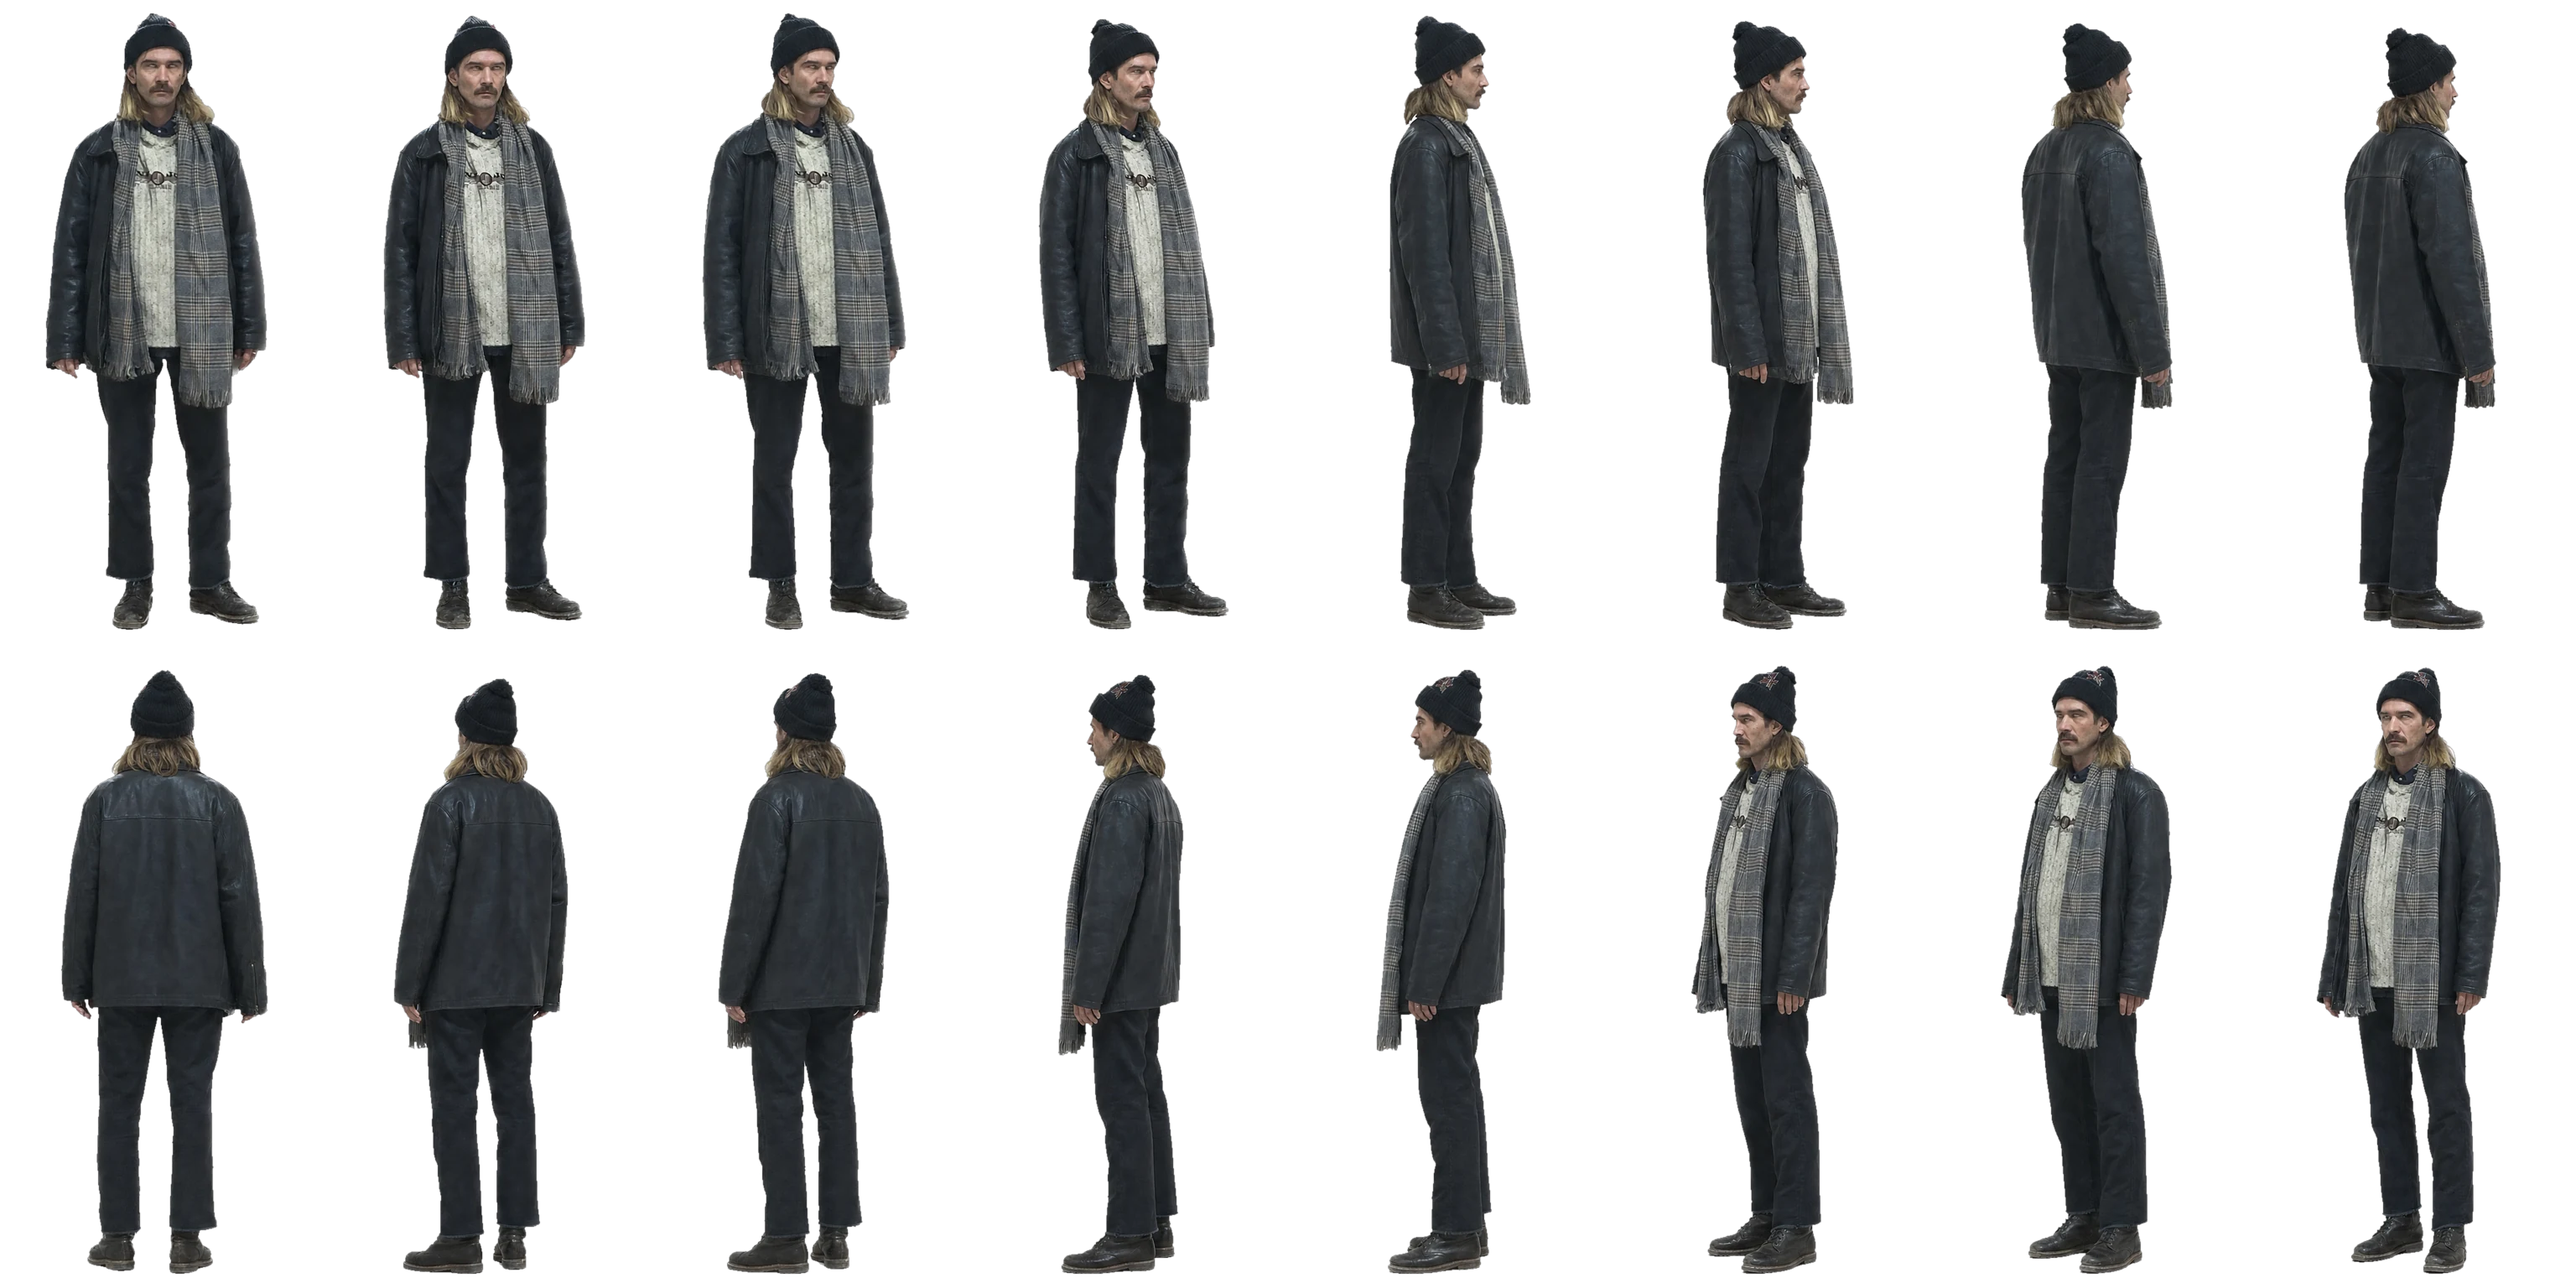
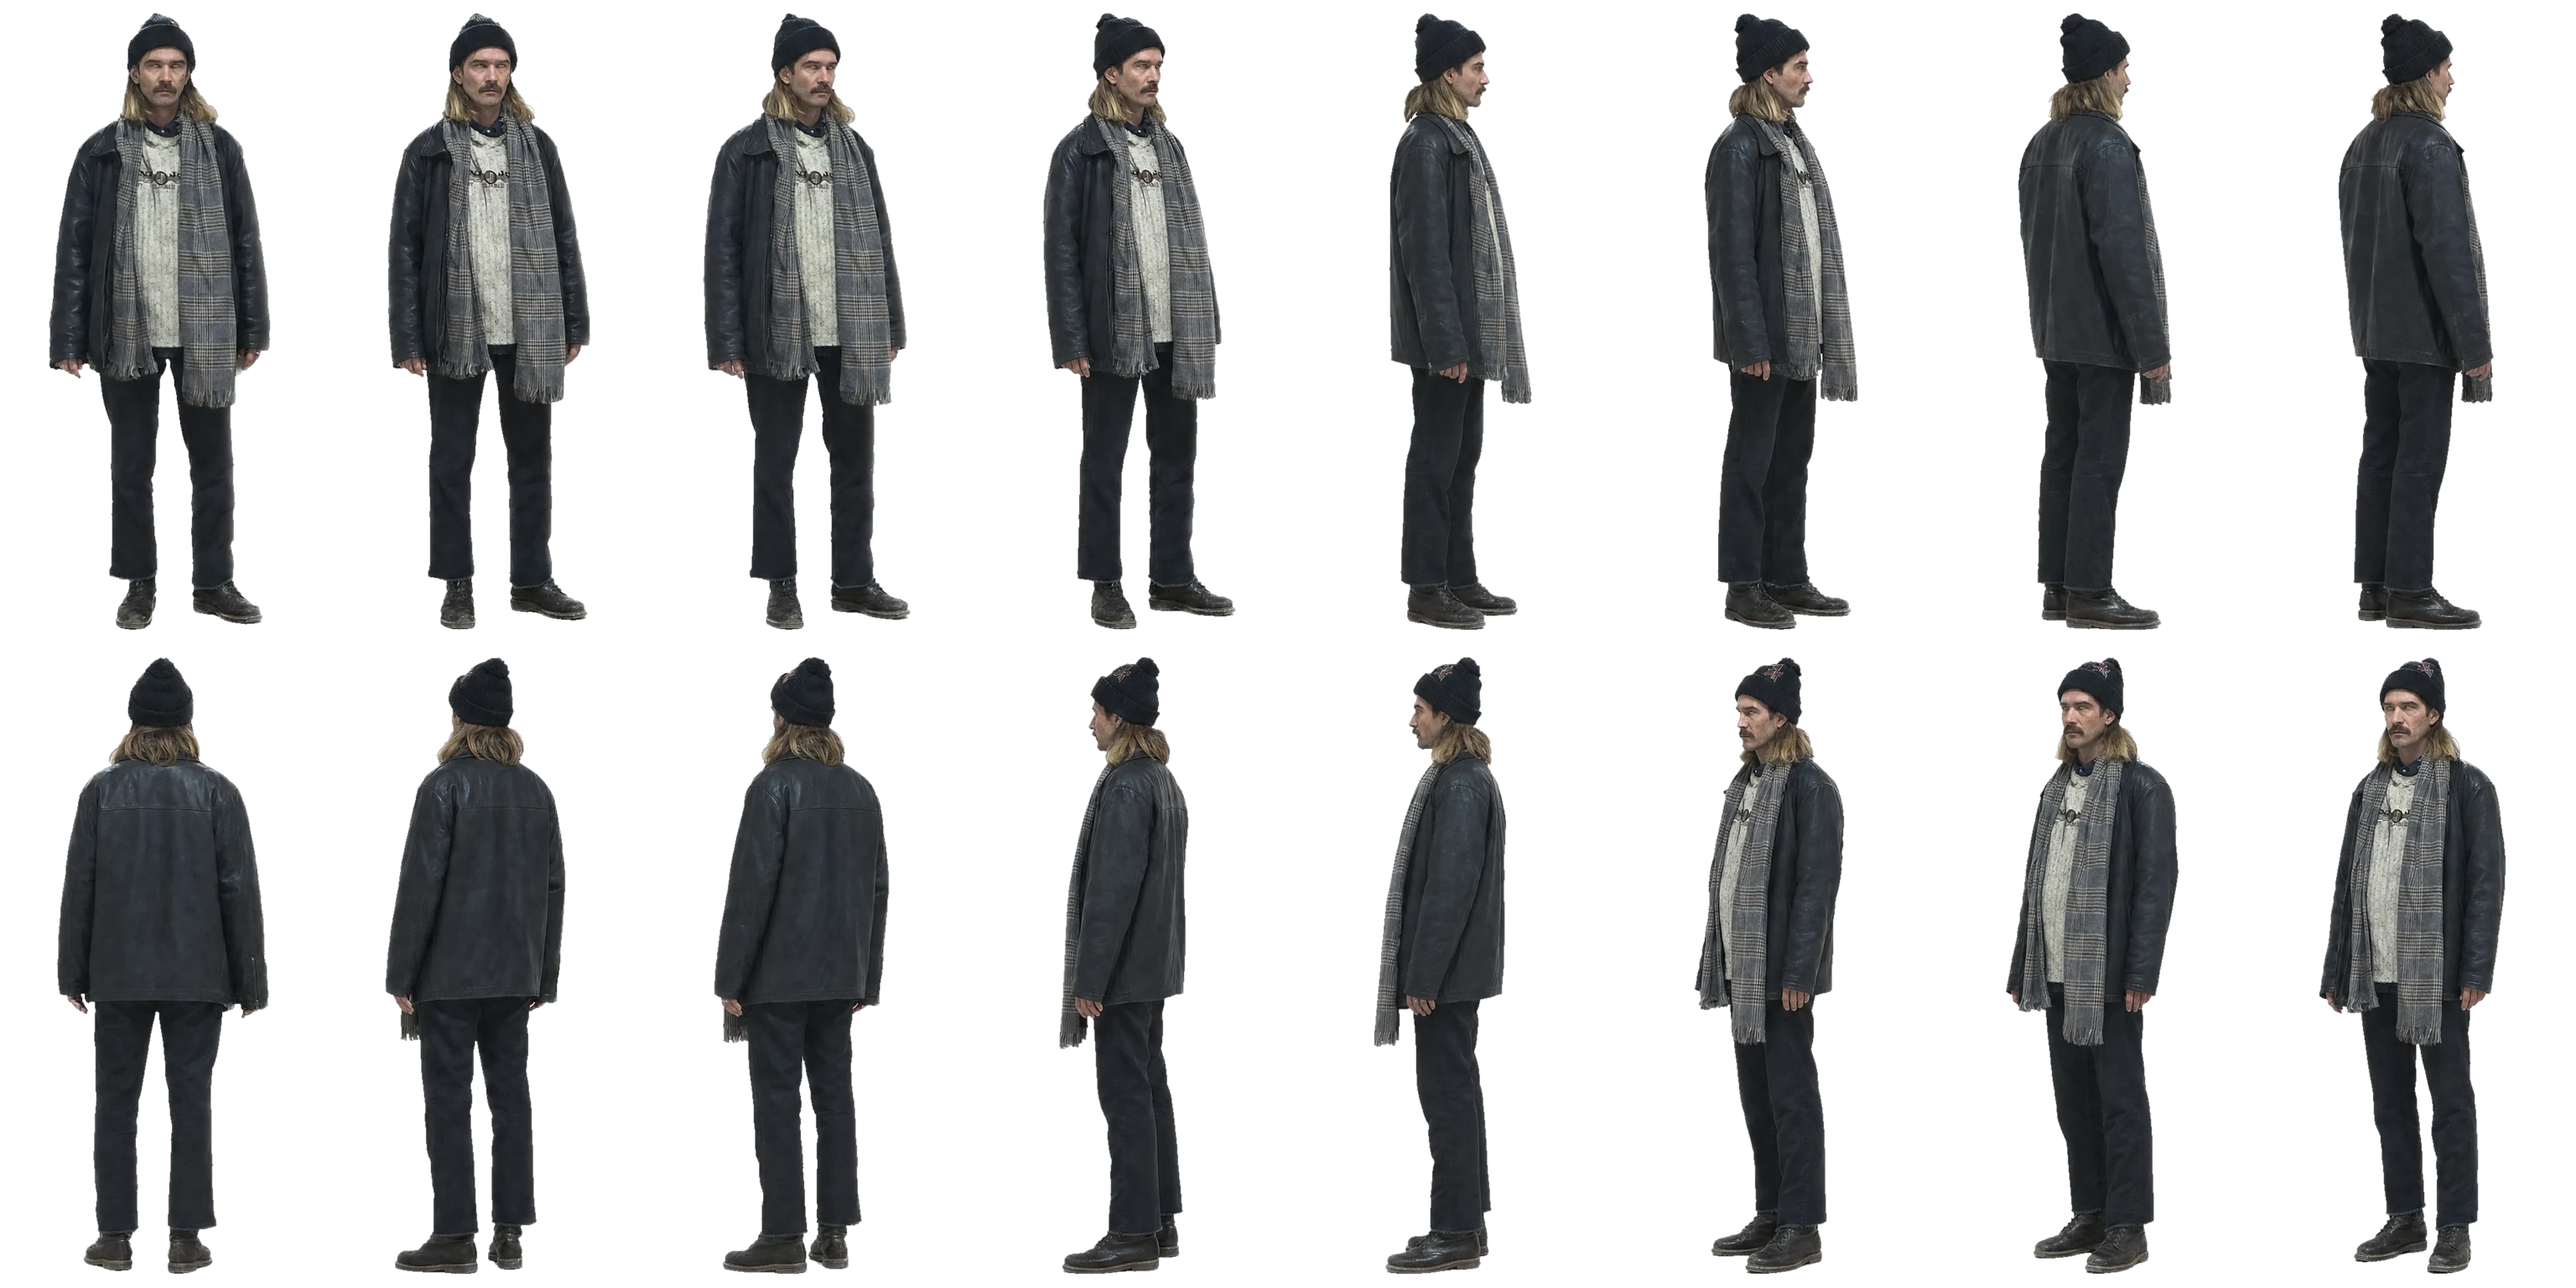
Impostor frames play strictly in order (no crossfade, no mouse wobble), frames aligned on the head and equal height; head on slide 2 turns one way; pvf_objects fox dithered into the slide-2 background

diff --git a/main.js b/main.js
@@ -311,8 +311,30 @@ function drawHead(f) {
   }
   headCtx.putImageData(headCache.get(f), 0, 0);
 }
+// ---------------------------------------------------------------- slide-2 fox: dithered grey, in the background
+const foxCv = $("#fox");
+let foxImg = null;
+function drawFox() {
+  if (!foxImg) return;
+  const r = foxCv.getBoundingClientRect(), cell = 3;
+  const w = Math.max(1, Math.round(r.width / cell)), h = Math.max(1, Math.round(r.height / cell));
+  foxCv.width = w; foxCv.height = h;
+  const c = foxCv.getContext("2d", { willReadFrequently: true });
+  c.drawImage(foxImg, 0, 0, w, h);
+  const img = c.getImageData(0, 0, w, h), d = img.data;
+  for (let y = 0; y < h; y++) for (let x = 0; x < w; x++) {
+    const i = (y * w + x) * 4;
+    if (d[i + 3] < 128) { d[i + 3] = 0; continue; }
+    const l = (0.299 * d[i] + 0.587 * d[i + 1] + 0.114 * d[i + 2]) / 255;
+    const ink = 1 - l * 0.85 > BAYER[(y & 3) * 4 + (x & 3)];
+    const v = ink ? 120 : 200;
+    d[i] = d[i + 1] = d[i + 2] = v; d[i + 3] = ink ? 255 : 110;
+  }
+  c.putImageData(img, 0, 0);
+}
+
 // head turns away and back while the cross rotates
-const HEAD_SEQ = [0, 15, 14, 13, 12, 13, 14, 15, 0, 1, 2, 3, 4];
+const HEAD_SEQ = [0, 1, 2, 3, 4, 5, 6, 7, 8, 9, 10, 11, 12, 13, 14, 15, 0];   // one full turn, in order
 
 function resize() {
   const w = innerWidth, h = innerHeight;
@@ -325,6 +347,7 @@ function resize() {
   panelW = $(".panel.left").offsetWidth;
   drawTerrain($("#terrainDark"), "#2b2b2b", 3.1, 1.25);
   drawTerrain($("#terrainLight"), "#bdbdbd", 7.7, 1.5);
+  drawFox();
 }
 addEventListener("resize", resize);
 
@@ -359,7 +382,8 @@ function onScroll() {
   cross.style.setProperty("--sc", 0.85 + 0.15 * enter + 0.12 * p2);
   cross.style.setProperty("--mx", clamp((p2 - 0.3) * 3));
   headCv.style.setProperty("--hy", `${(1 - enter) * 22}vh`);
-  drawHead(HEAD_SEQ[Math.round(p2 * (HEAD_SEQ.length - 1))]);
+  foxCv.style.setProperty("--fy", `${(1 - enter) * 10 - p2 * 6}vh`);
+  drawHead(HEAD_SEQ[Math.floor(p2 * (HEAD_SEQ.length - 1) + 0.5)]);
   bignum.textContent = NUMS[Math.min(NUMS.length - 1, Math.floor(p2 * NUMS.length))];
   canvas.style.visibility = r2.top > 0 ? "visible" : "hidden";
   $("#terrainDark").style.visibility = canvas.style.visibility;
@@ -374,19 +398,18 @@ function frame() {
   p1s += (p1 - p1s) * Math.min(1, dt * 7);
   if (BODY && canvas.style.visibility !== "hidden") {
     const n = BODY.frames.length;
-    const yaw = p1s * 2.25 + mouse.x * 0.06 + Math.sin(t * 0.35) * 0.01;   // turns
-    const f = ((yaw * n) % n + n) % n;
-    const a = Math.floor(f);
+    // scroll alone drives the turn: frames go 0, 1, 2 … 15, 0 in order, one at a time
+    const a = Math.floor(p1s * 2 * n) % n;
     glitchT = Math.max(0, glitchT - dt);
     const spike = Math.random() < 0.012 ? 0.3 : 0;
     figMat.uniforms.uA.value = a;
-    figMat.uniforms.uB.value = (a + 1) % n;
-    figMat.uniforms.uMix.value = f - a;
+    figMat.uniforms.uB.value = a;
+    figMat.uniforms.uMix.value = 0;
     figMat.uniforms.uTime.value = t;
     figMat.uniforms.uGlitch.value = Math.max(glitchT * 2, spike);
     figMat.uniforms.uSplit.value = 0.003 + glitchT * 0.02;
     renderer.render(scene, camera);
-    flowText(Math.round(f) % n);
+    flowText(a);
   }
   requestAnimationFrame(frame);
 }
@@ -407,6 +430,7 @@ Promise.all([
   fetch("assets/arseny_bust.json").then((r) => r.json()),
   tex.loadAsync("assets/arseny_body.webp").then((t) => { target += 35; return t; }),
   img("assets/arseny_bust.webp").then((i) => { target += 25; return i; }),
+  img("assets/fox.png").then((i) => (foxImg = i)),
   document.fonts.ready,
 ]).then(([body, bustJ, atlas, bust]) => {
   BODY = body; bustMeta = bustJ; bustImg = bust;

diff --git a/style.css b/style.css
@@ -102,6 +102,8 @@ em { font-style: normal; color: var(--dim); }
 .tear { position: absolute; left: 0; top: -59px; width: 100%; height: 60px; display: block; }
 .s2-sticky { position: sticky; top: 0; height: 100vh; overflow: hidden; }
 .terrain.light { position: absolute; height: 55%; }
+/* the pvf_objects fox, dithered into the hills behind the cross */
+.fox { position: absolute; right: 21vw; bottom: 4vh; height: 52vh; aspect-ratio: 457 / 720; image-rendering: pixelated; opacity: .6; transform: translateY(var(--fy, 0)); }
 .cross { position: absolute; left: 50%; top: 46%; width: min(82vw, 1150px); aspect-ratio: 1; transform: translate(-50%, -50%) rotate(var(--rot, 0deg)) scale(var(--sc, 1)); }
 .cross i { position: absolute; background: var(--red); display: block; }
 .cross .bar-v { left: 43%; width: 14%; top: -30%; height: 130%; }
@@ -158,6 +160,7 @@ em { font-style: normal; color: var(--dim); }
   .head { height: auto; width: 125vw; }
   .bignum { left: 12%; top: 40%; font-size: 72px; }
   .geo { right: var(--gutter); top: 11vh; }
+  .fox { right: -6vw; bottom: 2vh; height: 34vh; }
   #s3 { padding: 14vh var(--gutter) 70px; }
 }
 @media (prefers-reduced-motion: reduce) {

diff --git a/index.html b/index.html
@@ -62,6 +62,7 @@
     <svg class="tear" viewBox="0 0 1000 60" preserveAspectRatio="none" id="tear"></svg>
     <div class="s2-sticky">
       <canvas id="terrainLight" class="terrain light"></canvas>
+      <canvas class="fox" id="fox" aria-hidden="true"></canvas>
       <div class="cross" id="cross">
         <i class="bar-v"></i><i class="bar-h"></i>
         <i class="mini-x q1"></i><i class="mini-x q2"></i><i class="mini-x q3"></i><i class="mini-x q4"></i>

diff --git a/tools/build_impostor.py b/tools/build_impostor.py
@@ -52,13 +52,17 @@ body = Image.new("RGBA", (COLS * CW, rows * CH))
 bust = Image.new("RGBA", (COLS * BUST, rows * BUST))
 frames = []
 for i, (img, (x0, y0, x1, y1)) in enumerate(zip(cut, boxes)):
-    # body: same scale, centred on the frame's centre of mass, feet on floor_y
+    # body: every frame scaled to the same height, head on one vertical axis, feet on
+    # floor_y. The views are generated one by one, so their size and centring drift
+    # a little; the head is what the eye tracks while the figure turns.
     crop = img.crop((x0, y0, x1, y1))
     a = np.asarray(crop.getchannel("A")).astype(float)
-    cx = (a.sum(0) * np.arange(a.shape[1])).sum() / a.sum()
-    w, h = max(1, round(crop.width * scale)), max(1, round(crop.height * scale))
+    head = a[: int(a.shape[0] * 0.12)]
+    cx = (head.sum(0) * np.arange(head.shape[1])).sum() / head.sum()
+    fs = scale * tallest / crop.height
+    w, h = max(1, round(crop.width * fs)), max(1, round(crop.height * fs))
     small = crop.resize((w, h), Image.LANCZOS)
-    px = (i % COLS) * CW + int(CW / 2 - cx * scale)
+    px = (i % COLS) * CW + int(CW / 2 - cx * fs)
     py = (i // COLS) * CH + floor_y - h
     body.paste(small, (px, py), small)
 
@@ -71,10 +75,10 @@ for i, (img, (x0, y0, x1, y1)) in enumerate(zip(cut, boxes)):
         xs = np.nonzero(band > 40)[0]
         prof.append([round(xs.min() / CW, 3), round((xs.max() + 1) / CW, 3)] if len(xs) else None)
 
-    # bust: square around the head, full source resolution; same size on every frame
-    side = int(tallest * 0.36)
+    # bust: square around the head, same head size and position on every frame
+    side = int(crop.height * 0.36)
     hx = x0 + cx
-    bx0, by0 = int(hx - side / 2), int(y1 - tallest - side * 0.06)
+    bx0, by0 = int(hx - side / 2), int(y0 - side * 0.06)
     b = img.crop((bx0, by0, bx0 + side, by0 + side)).resize((BUST, BUST), Image.LANCZOS)
     bust.paste(b, ((i % COLS) * BUST, (i // COLS) * BUST), b)
 
